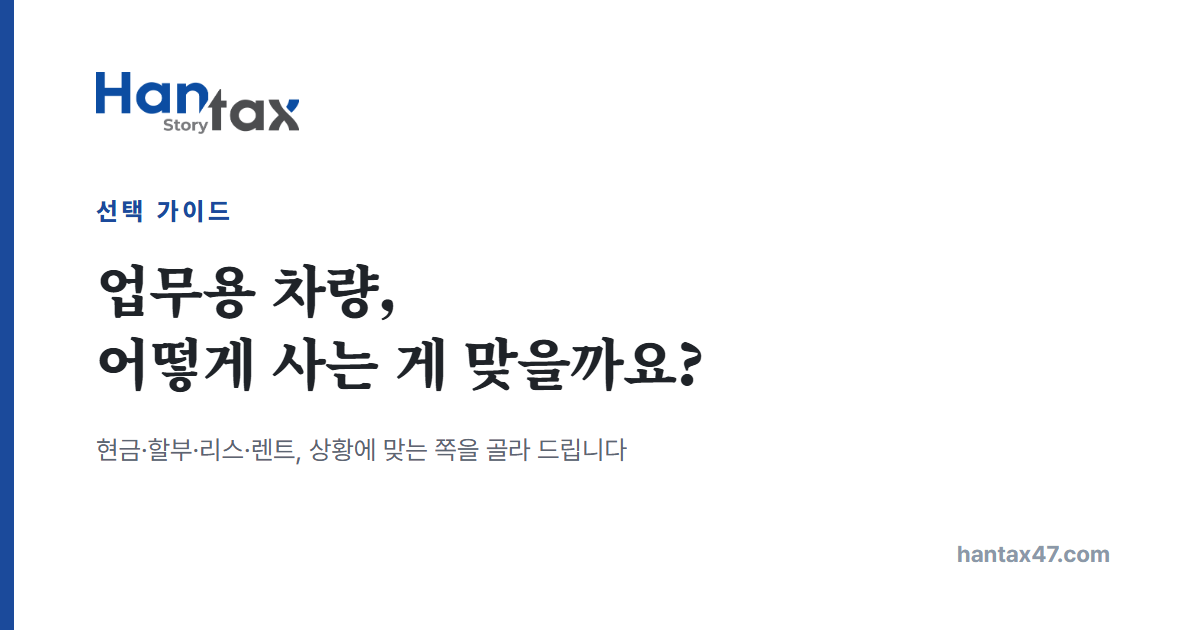
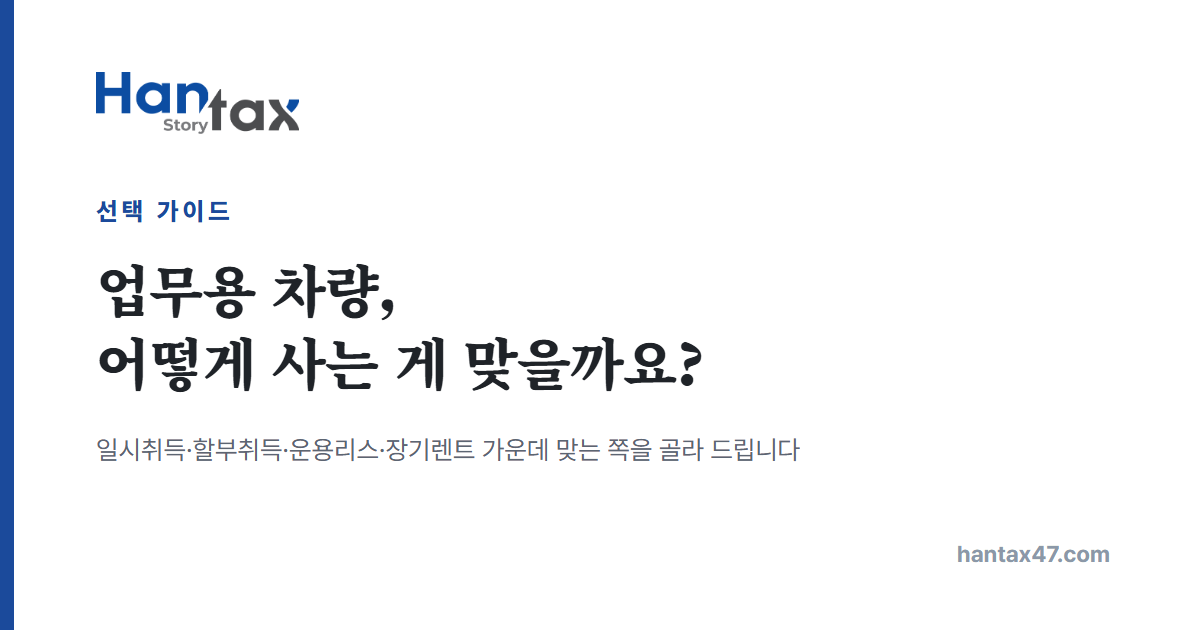
차량 선택 가이드: 차종 질문 추가, 경차·승합·화물 일반과세자는 운용리스 제외
사용자 결정: 경차·9인승 이상 승합차·화물차는 사거나 렌트하면 부가세를 돌려받지만 운용리스는 리스료에 부가세가 없어 차값의 부가세 10%를 돌려받지 못하므로, 일반과세자면 운용리스를 뺌. "어떤 차를 들이시나요?"(일반 승용차/경차/9인승 이상 승합차/화물차)를 두 번째 질문으로 넣고, 일반 승용차가 아닐 때만 "매입세액을 공제받는 일반과세자인가요?"를 물음. 예→운용리스 권하지 않음, 간이·면세→영향 없음, 모르겠음→안내만. 경차·승합·화물은 업무용승용차 한도와 운행기록부 의무를 받지 않는다는 안내도 결과와 안내문에 추가. 답에 따라 질문을 건너뛰도록 흐름을 바꾸고, 건너뛴 질문의 예전 답은 판정에 쓰지 않음. 질문 수 표기를 "몇 가지"로, 카톡 미리보기 이미지의 예전 이름(현금·할부·리스·렌트)도 새 이름으로 교체. 검산: 경우의 수 2,304가지 모두 추천 1개 이상, 차종·과세자 조합별 리스 제외 확인.

Changed region(s): [[0.0617, 0.6937, 0.6783, 0.754]]

diff --git a/tools/car-choice.html b/tools/car-choice.html
@@ -4,13 +4,13 @@
 <meta charset="UTF-8">
 <meta name="viewport" content="width=device-width, initial-scale=1.0">
 <title>업무용 차량, 사는 게 나을까요 빌리는 게 나을까요 | 한택스</title>
-<meta name="description" content="일시취득, 할부취득, 운용리스, 장기렌트 가운데 무엇이 맞는지 일곱 가지 질문으로 골라 드립니다. 사고 빈도, 자금출처, 신용도, 번호판, 중도 처분 가능성을 함께 봅니다.">
+<meta name="description" content="일시취득, 할부취득, 운용리스, 장기렌트 가운데 무엇이 맞는지 몇 가지 질문으로 골라 드립니다. 사고 빈도, 자금출처, 신용도, 번호판, 중도 처분 가능성을 함께 봅니다.">
 <link rel="canonical" href="https://www.hantax47.com/tools/car-choice.html">
 <meta property="og:title" content="업무용 차량, 어떻게 사는 게 맞을까요?">
-<meta property="og:description" content="일곱 가지 질문으로 일시취득·할부취득·운용리스·장기렌트 가운데 맞는 방법을 골라 드립니다">
+<meta property="og:description" content="몇 가지 질문으로 일시취득·할부취득·운용리스·장기렌트 가운데 맞는 방법을 골라 드립니다">
 <meta property="og:type" content="website">
 <meta property="og:url" content="https://www.hantax47.com/tools/car-choice.html">
-<meta property="og:image" content="https://www.hantax47.com/assets/og/tool-car-choice.png">
+<meta property="og:image" content="https://www.hantax47.com/assets/og/tool-car-choice.png?v=2">
 <meta property="og:site_name" content="한택스">
 <link rel="icon" href="../assets/favicon.png?v=4">
 <link rel="preconnect" href="https://fonts.googleapis.com">
@@ -93,7 +93,7 @@
   <div class="wrap">
     <span class="eyebrow">세무설계</span>
     <h1>업무용 차량,<br>어떻게 사는 게 맞을까요?</h1>
-    <p class="lead">일시취득, 할부취득, 운용리스, 장기렌트는 내는 돈만 놓고 보면 큰 차이가 없습니다. 갈리는 것은 사고가 잦은지, 자금출처가 신경 쓰이는지, 신용도가 중요한지 같은 상황입니다. 일곱 가지만 답해 주시면 맞는 방법을 골라 드립니다.</p>
+    <p class="lead">일시취득, 할부취득, 운용리스, 장기렌트는 내는 돈만 놓고 보면 큰 차이가 없습니다. 갈리는 것은 사고가 잦은지, 자금출처가 신경 쓰이는지, 신용도가 중요한지 같은 상황입니다. 몇 가지만 답해 주시면 맞는 방법을 골라 드립니다.</p>
   </div>
 </section>
 
@@ -137,7 +137,8 @@
         · 세금 계산이 아니라 상황에 맞는 구입 방법을 골라 드리는 안내입니다. 실제 지출과 세금 효과는 <a href="business-car.html">차량 비용 계산기</a>에서 확인해 주세요.<br>
         · 운용리스와 할부취득은 금융기관 부채로 잡혀 대출 한도에 영향을 줄 수 있고, 장기렌트는 렌트료를 비용으로 처리해 부채로 잡히지 않습니다.<br>
         · 장기렌트 차량은 허·하·호 번호판을 씁니다. 인수한 뒤에는 일반 번호판으로 바꿀 수 있습니다.<br>
-        · 어떤 방법으로 사더라도 업무용 승용차 비용은 연 1,500만 원까지만 운행기록부 없이 인정되고, 감가상각비는 연 800만 원이 한도입니다. 법인은 업무전용 자동차보험을 들어야 합니다.<br>
+        · 어떤 방법으로 사더라도 업무용 승용차 비용은 연 1,500만 원까지만 운행기록부 없이 인정되고, 감가상각비는 연 800만 원이 한도입니다. 법인은 업무전용 자동차보험을 들어야 합니다. 경차, 9인승 이상 승합차, 화물차는 이 한도를 받지 않습니다.<br>
+        · 경차, 9인승 이상 승합차, 화물차는 일반과세자가 사거나 렌트하면 부가세를 돌려받지만, 운용리스는 리스료에 부가세가 없어 차값의 부가세 10%를 돌려받지 못합니다.<br>
         · 중도에 해지하면 운용리스와 장기렌트는 위약금이 붙습니다. 계약 전에 위약금 조건을 꼭 확인해 주세요.
       </p>
 
@@ -185,6 +186,21 @@ const QUESTIONS=[
     ['corp','법인만 있습니다',{}],
     ['both','법인과 개인사업자를 둘 다 가지고 있습니다',{why:'법인과 개인사업자를 함께 두고 계시니 차량은 법인 명의가 낫습니다.'}]
    ]},
+  {id:'kind',q:'어떤 차를 들이시나요?',
+   help:'경차, 9인승 이상 승합차, 화물차는 차값의 부가세를 돌려받을 수 있고 업무용승용차 비용 한도도 받지 않습니다.',
+   opts:[
+    ['sedan','일반 승용차 (세단·SUV)',{}],
+    ['light','경차',{why:'경차는 업무용승용차가 아니라 연 1,500만 원 비용 한도, 감가상각비 800만 원 한도, 운행기록부 의무를 받지 않습니다.'}],
+    ['van','9인승 이상 승합차',{why:'9인승 이상 승합차는 업무용승용차가 아니라 연 1,500만 원 비용 한도, 감가상각비 800만 원 한도, 운행기록부 의무를 받지 않습니다.'}],
+    ['truck','화물차 (트럭·밴)',{why:'화물차는 업무용승용차가 아니라 연 1,500만 원 비용 한도, 감가상각비 800만 원 한도, 운행기록부 의무를 받지 않습니다.'}]
+   ]},
+  {id:'vat',when:a=>a.kind&&a.kind!=='sedan',q:'부가세 신고 때 매입세액을 공제받는 일반과세자인가요?',
+   help:'이 차종은 사거나 렌트하면 부가세를 돌려받지만, 운용리스는 리스료에 부가세가 없어 차값의 부가세 10%를 돌려받지 못합니다. 간이과세자나 병의원·학원 같은 면세사업자는 차이가 없습니다.',
+   opts:[
+    ['yes','예, 일반과세자입니다',{drop:{lease:'리스료에는 부가세가 없어 차값의 부가세 10%를 돌려받지 못합니다'},why:'일반과세자라 이 차종을 사거나 렌트하면 부가세를 돌려받지만, 운용리스는 차값의 부가세 10%를 돌려받지 못해 뺐습니다.'}],
+    ['no','간이과세자이거나 면세사업자입니다',{}],
+    ['unknown','잘 모르겠습니다',{why:'일반과세자라면 운용리스는 차값의 부가세 10%를 돌려받지 못해 불리합니다. 부가세를 어떻게 신고하고 계신지 확인해 보세요.'}]
+   ]},
   {id:'spend',q:'총 지출을 줄이는 것이 얼마나 중요한가요?',
    help:'이자와 수수료까지 더한 전체 금액을 말합니다.',
    opts:[
@@ -225,11 +241,13 @@ const QUESTIONS=[
 const $=id=>document.getElementById(id);
 let answers={}, idx=0;
 
+const visible=a=>QUESTIONS.filter(q=>!q.when||q.when(a));   // 답에 따라 필요한 질문만
 function show(){
-  if(idx>=QUESTIONS.length){ result(); return; }
-  const q=QUESTIONS[idx];
-  $('q-step').textContent=(idx+1)+' / '+QUESTIONS.length;
-  $('q-bar').style.width=Math.round(idx/QUESTIONS.length*100)+'%';
+  const list=visible(answers);
+  if(idx>=list.length){ result(); return; }
+  const q=list[idx];
+  $('q-step').textContent=(idx+1)+' / '+list.length;
+  $('q-bar').style.width=Math.round(idx/list.length*100)+'%';
   $('q-back').style.visibility=idx?'visible':'hidden';
   $('q-title').textContent=q.q;
   $('q-help').textContent=q.help||'';
@@ -240,7 +258,7 @@ function show(){
 }
 $('q-opts').addEventListener('click',e=>{
   const b=e.target.closest('.opt'); if(!b) return;
-  answers[QUESTIONS[idx].id]=b.dataset.v;
+  answers[visible(answers)[idx].id]=b.dataset.v;
   idx++; show();
 });
 $('q-back').addEventListener('click',()=>{ if(idx){ idx--; show(); } });
@@ -248,7 +266,7 @@ $('restart').addEventListener('click',()=>{ answers={}; idx=0; show(); window.sc
 
 function decide(a){
   const score={cash:0,loan:0,lease:0,rent:0}, dropped={}, why=[];
-  for(const q of QUESTIONS){
+  for(const q of visible(a)){   // 건너뛴 질문의 예전 답은 쓰지 않습니다
     const picked=q.opts.find(o=>o[0]===a[q.id]); if(!picked) continue;
     const eff=picked[2]||{};
     if(eff.score) for(const k in eff.score) score[k]+=eff.score[k];

diff --git a/tools/index.html b/tools/index.html
@@ -127,7 +127,7 @@
 
       <a class="tool" href="car-choice.html">
         <b>업무용 차량,<br>어떻게 사는 게 맞을까요?</b>
-        <p>일시취득, 할부취득, 운용리스, 장기렌트 가운데 무엇이 맞는지 일곱 가지 질문으로 골라 드립니다. 사고 빈도, 자금출처, 신용도, 번호판, 중도 처분 가능성을 봅니다.</p>
+        <p>일시취득, 할부취득, 운용리스, 장기렌트 가운데 무엇이 맞는지 몇 가지 질문으로 골라 드립니다. 차종, 사고 빈도, 자금출처, 신용도, 번호판, 중도 처분 가능성을 봅니다.</p>
         <span class="go">골라 보기</span>
       </a>
 
